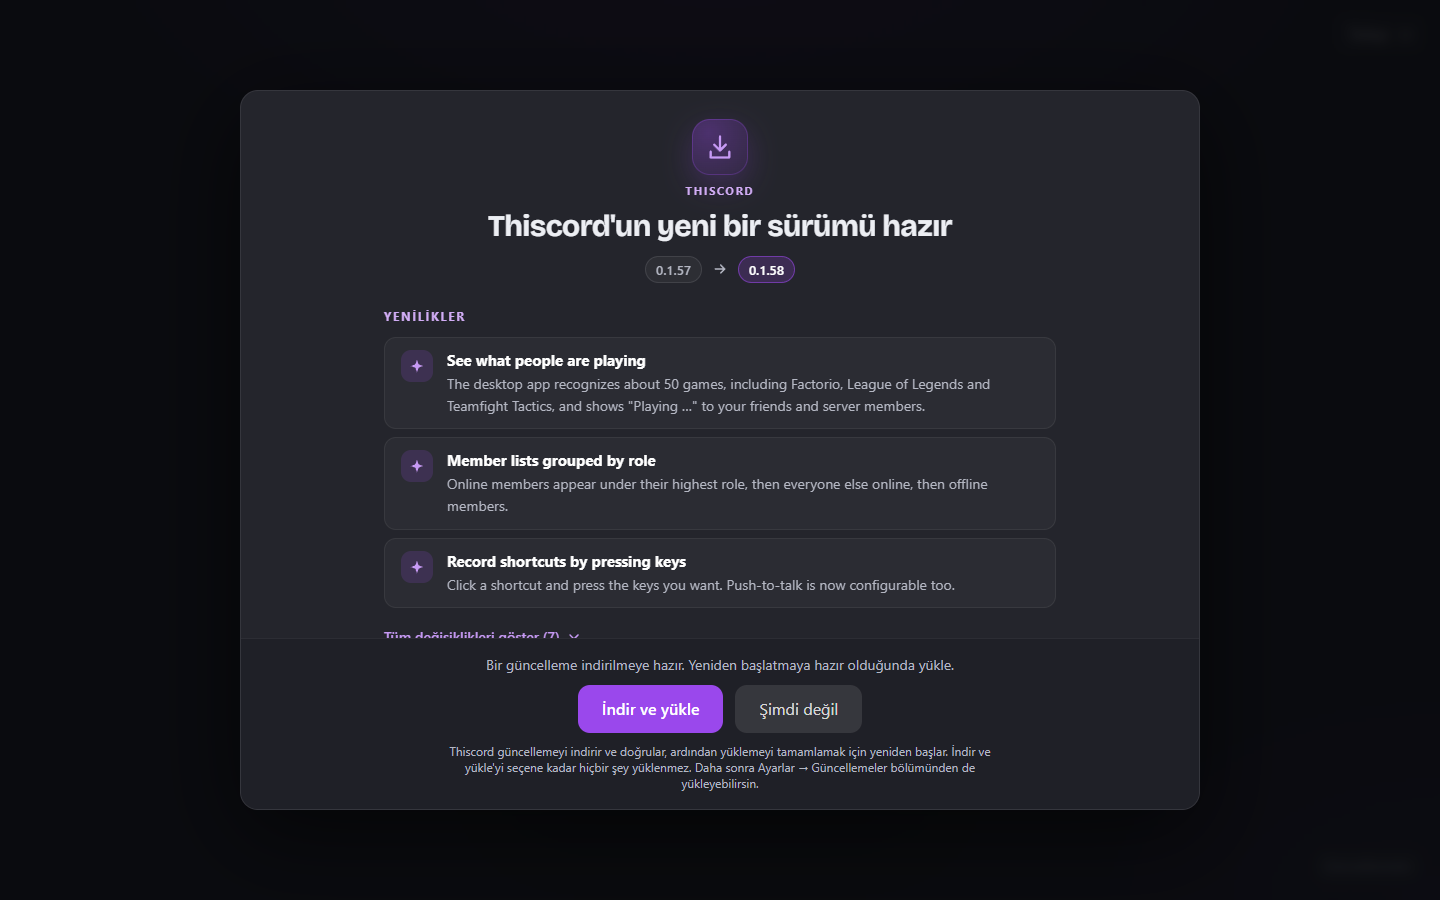
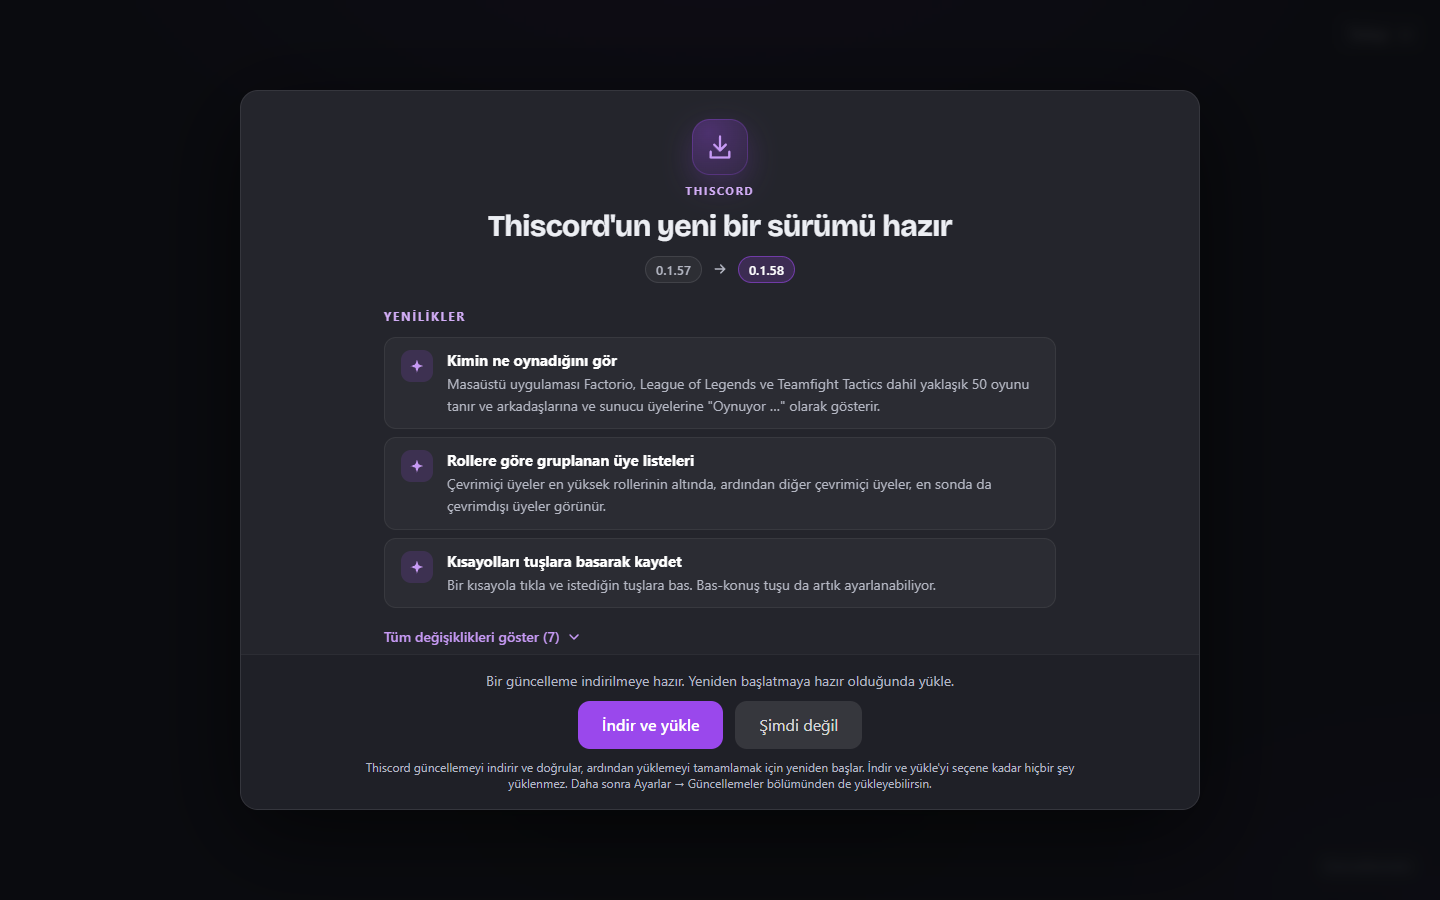
Ship Turkish changelogs alongside English ones
Each release now also has changelog/<version>.tr.md. The update manifest
notes hold English, then `<!-- lang: tr -->` and the Turkish text; update
screens show the part in the app's language and fall back to English. The
GitHub release shows Turkish in a collapsed section. Validation and the
changelog test require both files, and the test checks that a translation
has the same highlights and bullets as its English original.

diff --git a/frontend/src/changelog.rs b/frontend/src/changelog.rs
@@ -1,13 +1,28 @@
 //! Release changelogs shown on update screens.
 //!
-//! `changelog/<version>.md` is published as the GitHub release body and as the
-//! `notes` of the update manifest (`docs/releases.md`). The text comes from the
-//! network, so this parses a small Markdown subset into plain spans; nothing is
-//! ever rendered as HTML.
+//! `changelog/<version>.md` (English) and its translations such as
+//! `changelog/<version>.tr.md` are published in the GitHub release body and in
+//! the `notes` of the update manifest (`docs/releases.md`). The text comes from
+//! the network, so this parses a small Markdown subset into plain spans; nothing
+//! is ever rendered as HTML.
 
 /// Notes beyond this many bytes are ignored; release validation keeps them far smaller.
-pub const MAX_NOTES_BYTES: usize = 16 * 1024;
+pub const MAX_NOTES_BYTES: usize = 32 * 1024;
 const MAX_ENTRIES: usize = 80;
+/// Manifest notes hold English first, then each translation after this marker,
+/// e.g. `<!-- lang: tr -->`. GitHub hides the comment in rendered Markdown.
+pub const LANGUAGE_MARKER: &str = "<!-- lang:";
+
+/// The part of the notes written in `language` (a code like `tr`), or the
+/// English part when that translation is missing.
+pub fn localized<'a>(notes: &'a str, language: &str) -> &'a str {
+    let mut parts = notes.split(LANGUAGE_MARKER);
+    let english = parts.next().unwrap_or_default();
+    parts
+        .filter_map(|part| part.split_once("-->"))
+        .find(|(code, _)| code.trim() == language)
+        .map_or(english, |(_, text)| text)
+}
 
 #[derive(Clone, Debug, Default, PartialEq, Eq)]
 pub struct Changelog {
@@ -296,21 +311,61 @@ mod tests {
         assert_eq!(spans("****"), [Span::Text("****".into())]);
     }
 
-    /// Every committed changelog is well formed, and the version being built has one,
-    /// so a release PR cannot skip it (`docs/releases.md`).
+    #[test]
+    fn notes_select_the_translation_or_fall_back_to_english() {
+        let notes = "## Highlights\n- **Hello.** World.\n\n<!-- lang: tr -->\n\n## Highlights\n- **Merhaba.** Dünya.\n";
+        let title = |language| {
+            Changelog::parse(localized(notes, language)).highlights[0]
+                .title
+                .clone()
+        };
+        assert_eq!(title("en").as_deref(), Some("Hello"));
+        assert_eq!(title("tr").as_deref(), Some("Merhaba"));
+        assert_eq!(title("de").as_deref(), Some("Hello"));
+        assert_eq!(Changelog::parse(localized(notes, "en")).detail_count(), 0);
+        assert_eq!(localized("only English", "tr"), "only English");
+    }
+
+    /// Every committed changelog is well formed and matches its English original,
+    /// and the version being built has every translation, so a release PR cannot
+    /// skip one (`docs/releases.md`).
     #[test]
     fn committed_changelogs_are_well_formed() {
         let directory = std::path::Path::new(env!("CARGO_MANIFEST_DIR")).join("../changelog");
-        let current = directory.join(format!("{}.md", env!("CARGO_PKG_VERSION")));
-        assert!(
-            current.is_file(),
-            "add {} before releasing this version",
-            current.display()
-        );
+        for suffix in ["md", "tr.md"] {
+            let current = directory.join(format!("{}.{suffix}", env!("CARGO_PKG_VERSION")));
+            assert!(
+                current.is_file(),
+                "add {} before releasing this version",
+                current.display()
+            );
+        }
+        let shape = |log: &Changelog| {
+            (
+                log.highlights.len(),
+                log.sections
+                    .iter()
+                    .map(|s| (s.kind, s.entries.len()))
+                    .collect::<Vec<_>>(),
+            )
+        };
         for file in std::fs::read_dir(&directory).unwrap() {
             let path = file.unwrap().path();
             let notes = std::fs::read_to_string(&path).unwrap();
             let name = path.display();
+            assert!(
+                !notes.contains(LANGUAGE_MARKER),
+                "{name} contains a language marker"
+            );
+            if let Some(version) = path.to_str().unwrap().strip_suffix(".tr.md") {
+                let english = std::fs::read_to_string(format!("{version}.md"))
+                    .unwrap_or_else(|_| panic!("{name} has no English original"));
+                assert_eq!(
+                    shape(&Changelog::parse(&notes)),
+                    shape(&Changelog::parse(&english)),
+                    "{name} must translate the same highlights and bullets as the English file"
+                );
+            }
             assert!(notes.len() <= 8 * 1024, "{name} exceeds 8 KiB");
             assert!(
                 notes.contains("\n## Highlights\n") || notes.starts_with("## Highlights\n"),

diff --git a/frontend/src/app/updates.rs b/frontend/src/app/updates.rs
@@ -2,7 +2,7 @@ use super::Ui;
 use crate::account_client::{desktop, native};
 use leptos::prelude::*;
 use serde_json::json;
-use thiscord_frontend::changelog::{Changelog, Kind, Span};
+use thiscord_frontend::changelog::{Changelog, Kind, Span, localized};
 use thiscord_shared::update::{UpdatePhase, UpdateStatus};
 
 fn busy(ui: Ui) -> bool {
@@ -123,7 +123,7 @@ fn Prompt(ui: Ui) -> impl IntoView {
                     </div>
                     <Show when=move||ui.voice.get().channel_id.is_some()><p class="text-sm text-white/60">{move || crate::i18n::t("Disconnect from voice before installing.")}</p></Show>
                     <p role="alert" class="text-sm text-red-300 empty:hidden">{move||crate::i18n::message(ui.update_error.get())}</p>
-                    <p class="max-w-xl text-xs text-white/60">{move || crate::i18n::t("Thiscord downloads and verifies the update, then restarts to finish installing. Nothing is installed until you choose Download and install.")}" "{move || crate::i18n::t("You can also install later from Settings → Updates.")}</p>
+                    <p class="max-w-3xl text-xs text-white/60">{move || crate::i18n::t("Thiscord downloads and verifies the update, then restarts to finish installing. Nothing is installed until you choose Download and install.")}" "{move || crate::i18n::t("You can also install later from Settings → Updates.")}</p>
                 </footer>
             </div>
         </dialog>
@@ -142,13 +142,18 @@ fn VersionStep(ui: Ui) -> impl IntoView {
     }
 }
 
-/// The available release's changelog. Download progress updates the status many
-/// times per second, so the notes are compared first and parsed only on change.
+/// The available release's changelog in the chosen language (English when that
+/// translation is missing). Download progress updates the status many times per
+/// second, so the notes are compared first and parsed only on change.
 fn changelog(ui: Ui) -> Memo<Option<Changelog>> {
     let notes = Memo::new(move |_| ui.updates.with(|s| s.notes.clone()));
     Memo::new(move |_| {
+        let language = crate::i18n::language().code();
         notes
-            .with(|n| n.as_deref().map(Changelog::parse))
+            .with(|n| {
+                n.as_deref()
+                    .map(|n| Changelog::parse(localized(n, language)))
+            })
             .filter(|log| !log.is_empty())
     })
 }

diff --git a/docs/releases.md b/docs/releases.md
@@ -89,12 +89,17 @@ assigned database port to avoid the locally hosted development PostgreSQL port.
 
 ## Changelog
 
-Every client version has a reviewed `changelog/MAJOR.MINOR.PATCH.md`, written in the
-release PR together with the version bump. Publishing puts it at the top of the
-GitHub release and into the `notes` of `latest.json`, which the updater hands to the
-update prompt, **Settings → App updates** and the login screen's Updates dialog.
-Release validation fails without it, and `cargo test -p thiscord-frontend --lib`
-(`changelog::tests`) checks the file for the version being built and all others.
+Every client version has a reviewed `changelog/MAJOR.MINOR.PATCH.md` in English and
+its Turkish translation `changelog/MAJOR.MINOR.PATCH.tr.md`, written in the release
+PR together with the version bump. Publishing puts the English text at the top of
+the GitHub release with the Turkish one in a collapsed **Türkçe** section, and both
+into the `notes` of `latest.json`: English first, then `<!-- lang: tr -->` and the
+Turkish text. The updater hands these notes to the update prompt, **Settings → App
+updates** and the login screen's Updates dialog, which show the part in the app's
+language and fall back to English. Release validation fails without either file,
+and `cargo test -p thiscord-frontend --lib` (`changelog::tests`) checks both for the
+version being built, all other files, and that each translation has the same
+highlights, sections and bullet counts as its English original.
 
 To write one, read every PR merged since the previous `client-v` tag
 (`git log --merges --first-parent client-vPREVIOUS..HEAD` and the PR descriptions)
@@ -125,7 +130,10 @@ Leave out changes nobody can notice (refactors, CI, docs) unless they matter to 
 `**Title.**` and a sentence. `## New`, `## Improved` and `## Fixed` are optional;
 omit empty ones and use no other headings. Bullets are single paragraphs; `**bold**`
 and `` `code` `` are the only formatting shown, and links show only their label.
-Keep the file under 8 KiB. Clients treat the notes as untrusted text: they parse
+Translations keep the English `## Highlights`, `## New`, `## Improved` and `## Fixed`
+headings (the app shows translated labels) and translate every bullet one-to-one,
+using the app's own Turkish terms from `frontend/locales/tr.json`.
+Keep each file under 8 KiB. Clients treat the notes as untrusted text: they parse
 this subset into text spans (`frontend/src/changelog.rs`) and never render HTML.
 The notes describe only the version being installed, so users who skipped versions
 see the newest changelog; earlier ones stay on their GitHub releases.

diff --git a/changelog/0.1.59.tr.md b/changelog/0.1.59.tr.md
@@ -1,0 +1,15 @@
+## Highlights
+
+- **Gezinme kısayollarını sen seç.** Hızlı geçiş, arama, klavye kısayolları listesi ve kanal, okunmamış ve sunucu geçişleri artık sesli kısayollar gibi Ayarlar → Kısayollar ve arayüz katmanı bölümünden değiştirilebiliyor.
+- **Klavye kısayolları listesi senin tuşlarını gösterir.** Ctrl+/ seçtiğin tuşları listeler, böylece bir kısayolu değiştirdikten sonra da doğru kalır.
+
+## New
+
+- Bir gezinme kısayolunu kaydetmek için ona tıkla ve tuşlara bas. Varsayılanlar bugünkü tuşlardır ve Sıfırla onları geri getirir.
+- Bir gezinme kısayolunu temizlemek o komutu bu cihazda kapatır.
+
+## Improved
+
+- Kısayollar cihaz başına kaydedilir ve Ctrl, Alt veya Super ya da bir işlev tuşu kullanmalıdır; böylece yazma ve liste gezinmesi çalışmaya devam eder.
+- Bir kısayol artık aynı cihazdaki başka bir gezinme, ses veya arayüz katmanı tuşunu tekrarlayamaz.
+- Menülerin, listelerin ve mesaj kutusunun kullandığı tuşlar (Esc, Enter, ok tuşları, Shift+F10 ve düzenlemek için ↑) **Sabit tuşlar** altında listelenir.

diff --git a/AGENTS.md b/AGENTS.md
@@ -120,7 +120,8 @@
   the repository, enforce signed versions, and publish a complete platform feed only
   after all checks/builds pass. Updates require explicit install/restart and must not
   interrupt voice. Keep the Cargo/Tauri versions and `client-v` release tag aligned.
-- Every client release ships `changelog/<version>.md`, shown on update screens and
-  as the GitHub release body. When asked for a release, read all PRs merged since
-  the previous `client-v` tag and summarize them for users in the format and tone
-  of `docs/releases.md#changelog`, in the same PR as the version bump.
+- Every client release ships `changelog/<version>.md` and its Turkish translation
+  `changelog/<version>.tr.md`, shown on update screens and in the GitHub release.
+  When asked for a release, read all PRs merged since the previous `client-v` tag
+  and summarize them for users in the format and tone of `docs/releases.md#changelog`,
+  in the same PR as the version bump.
